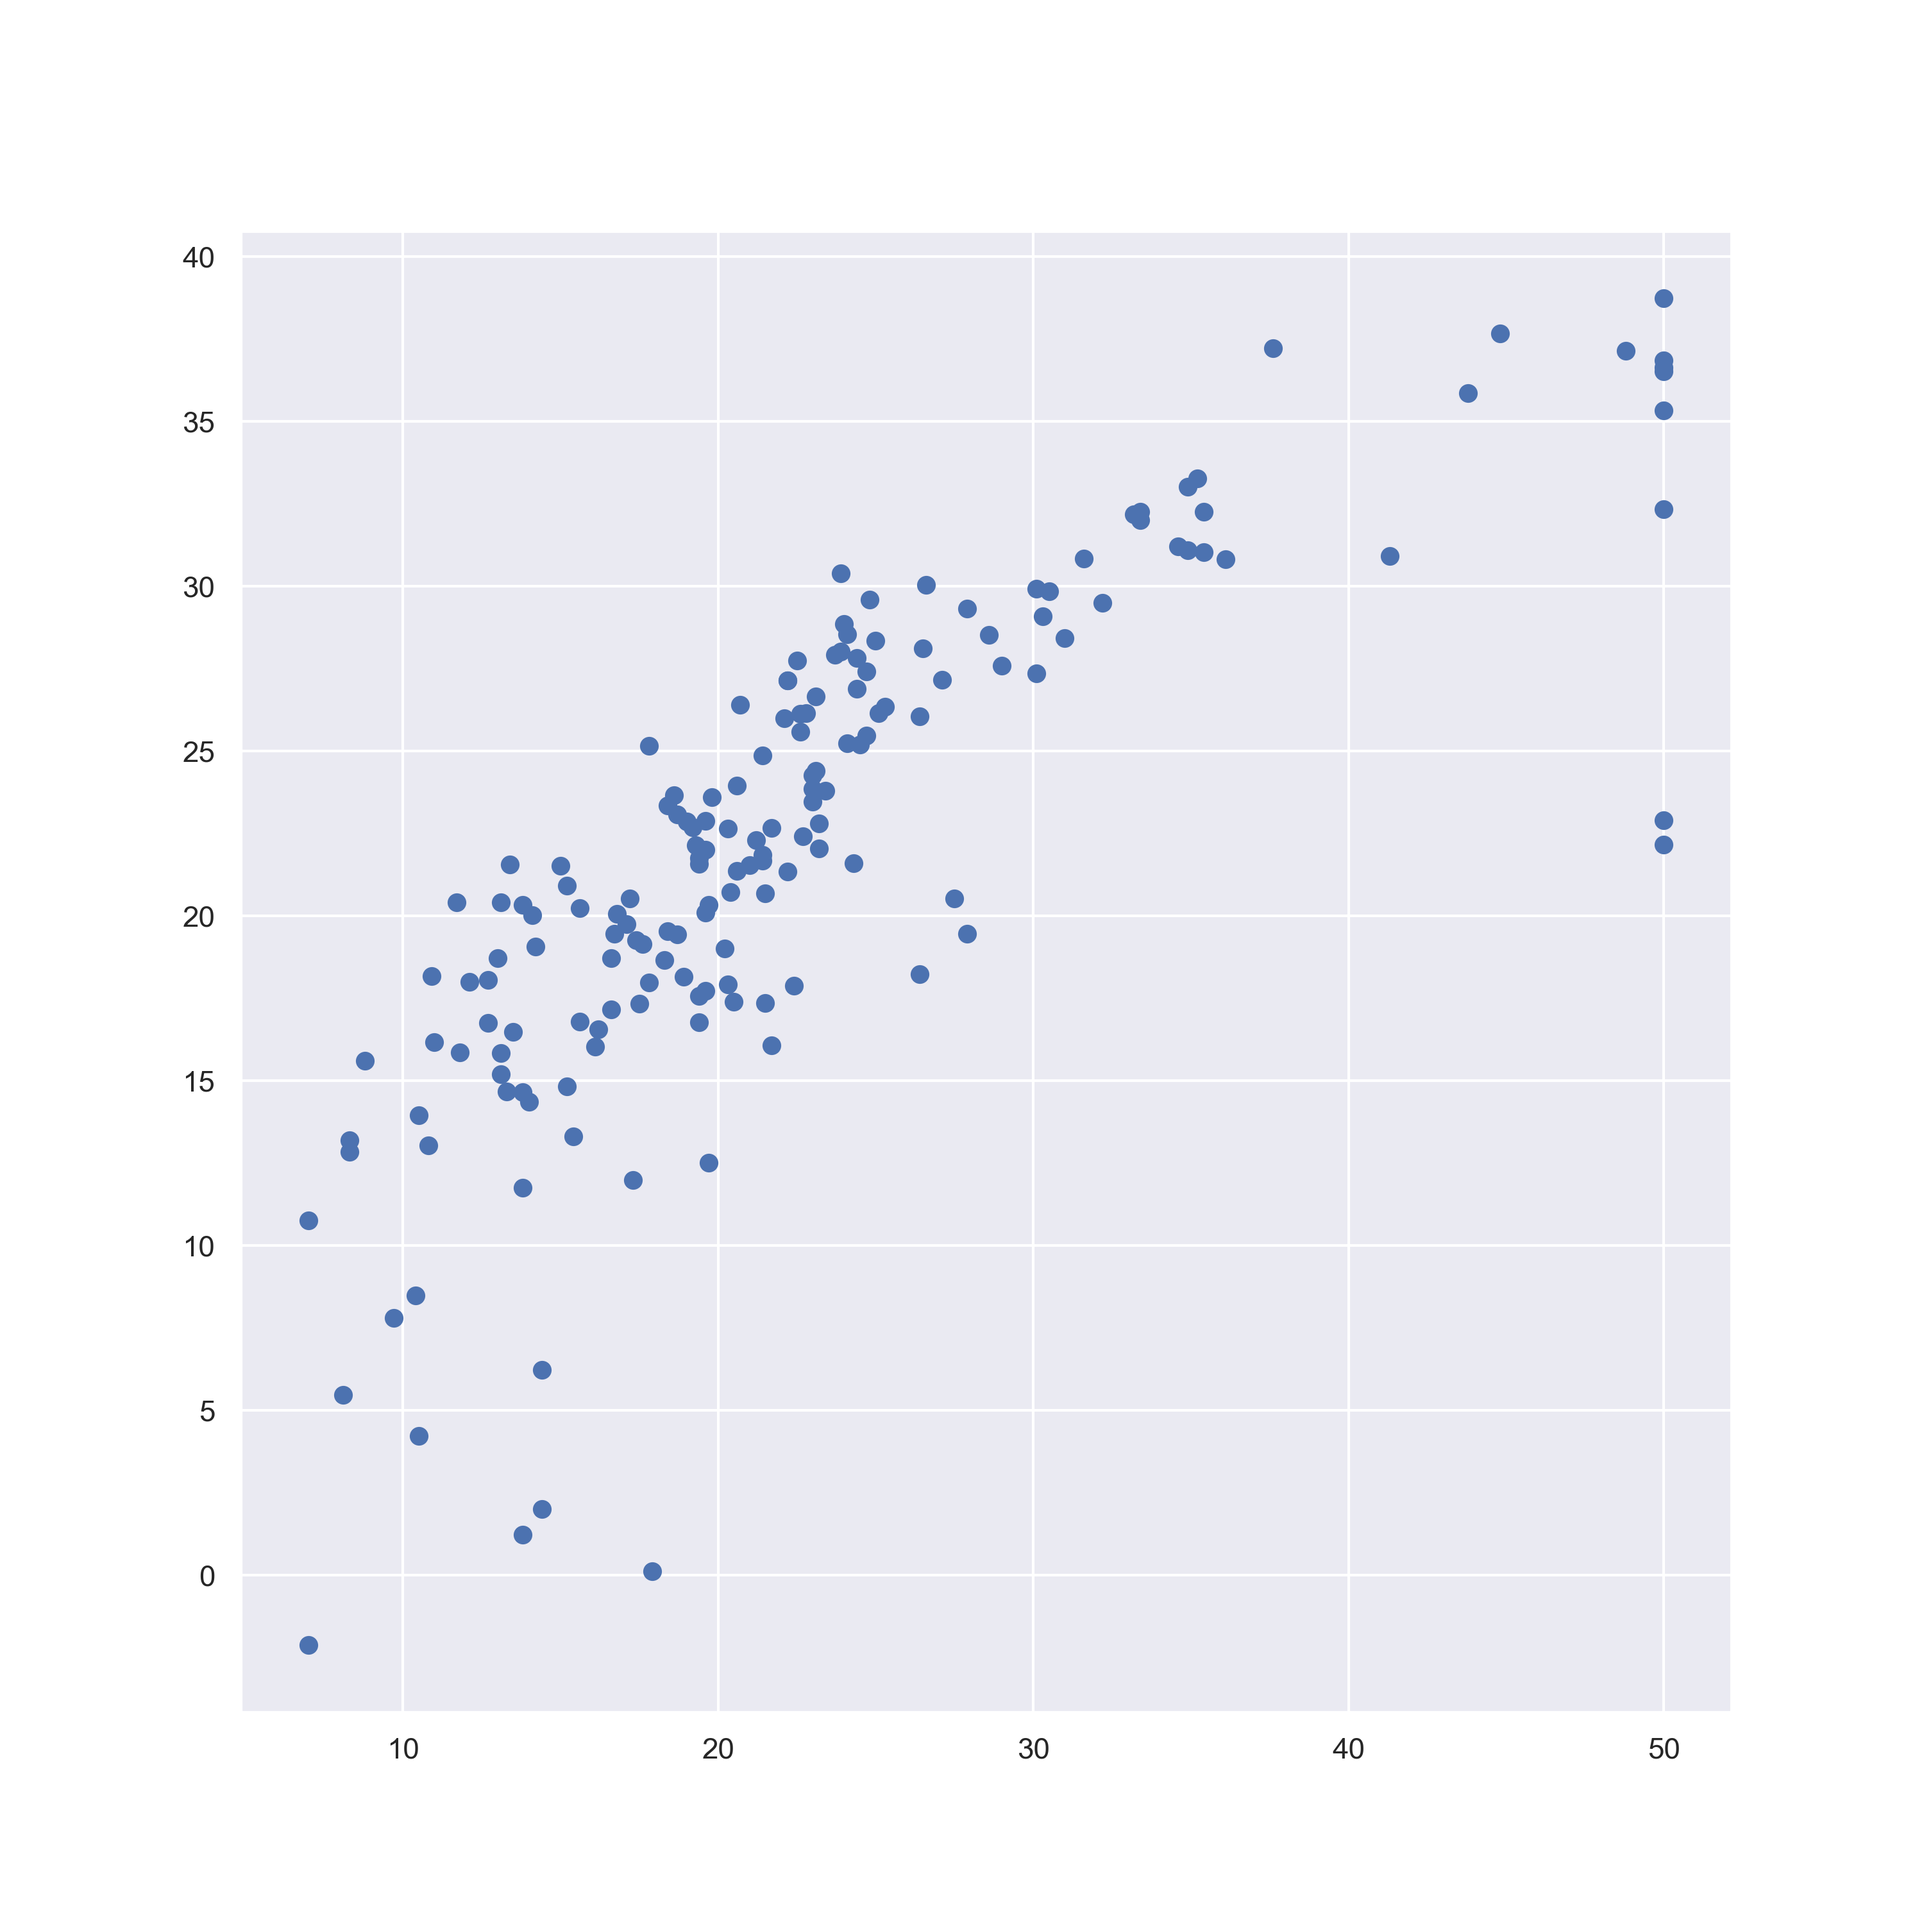
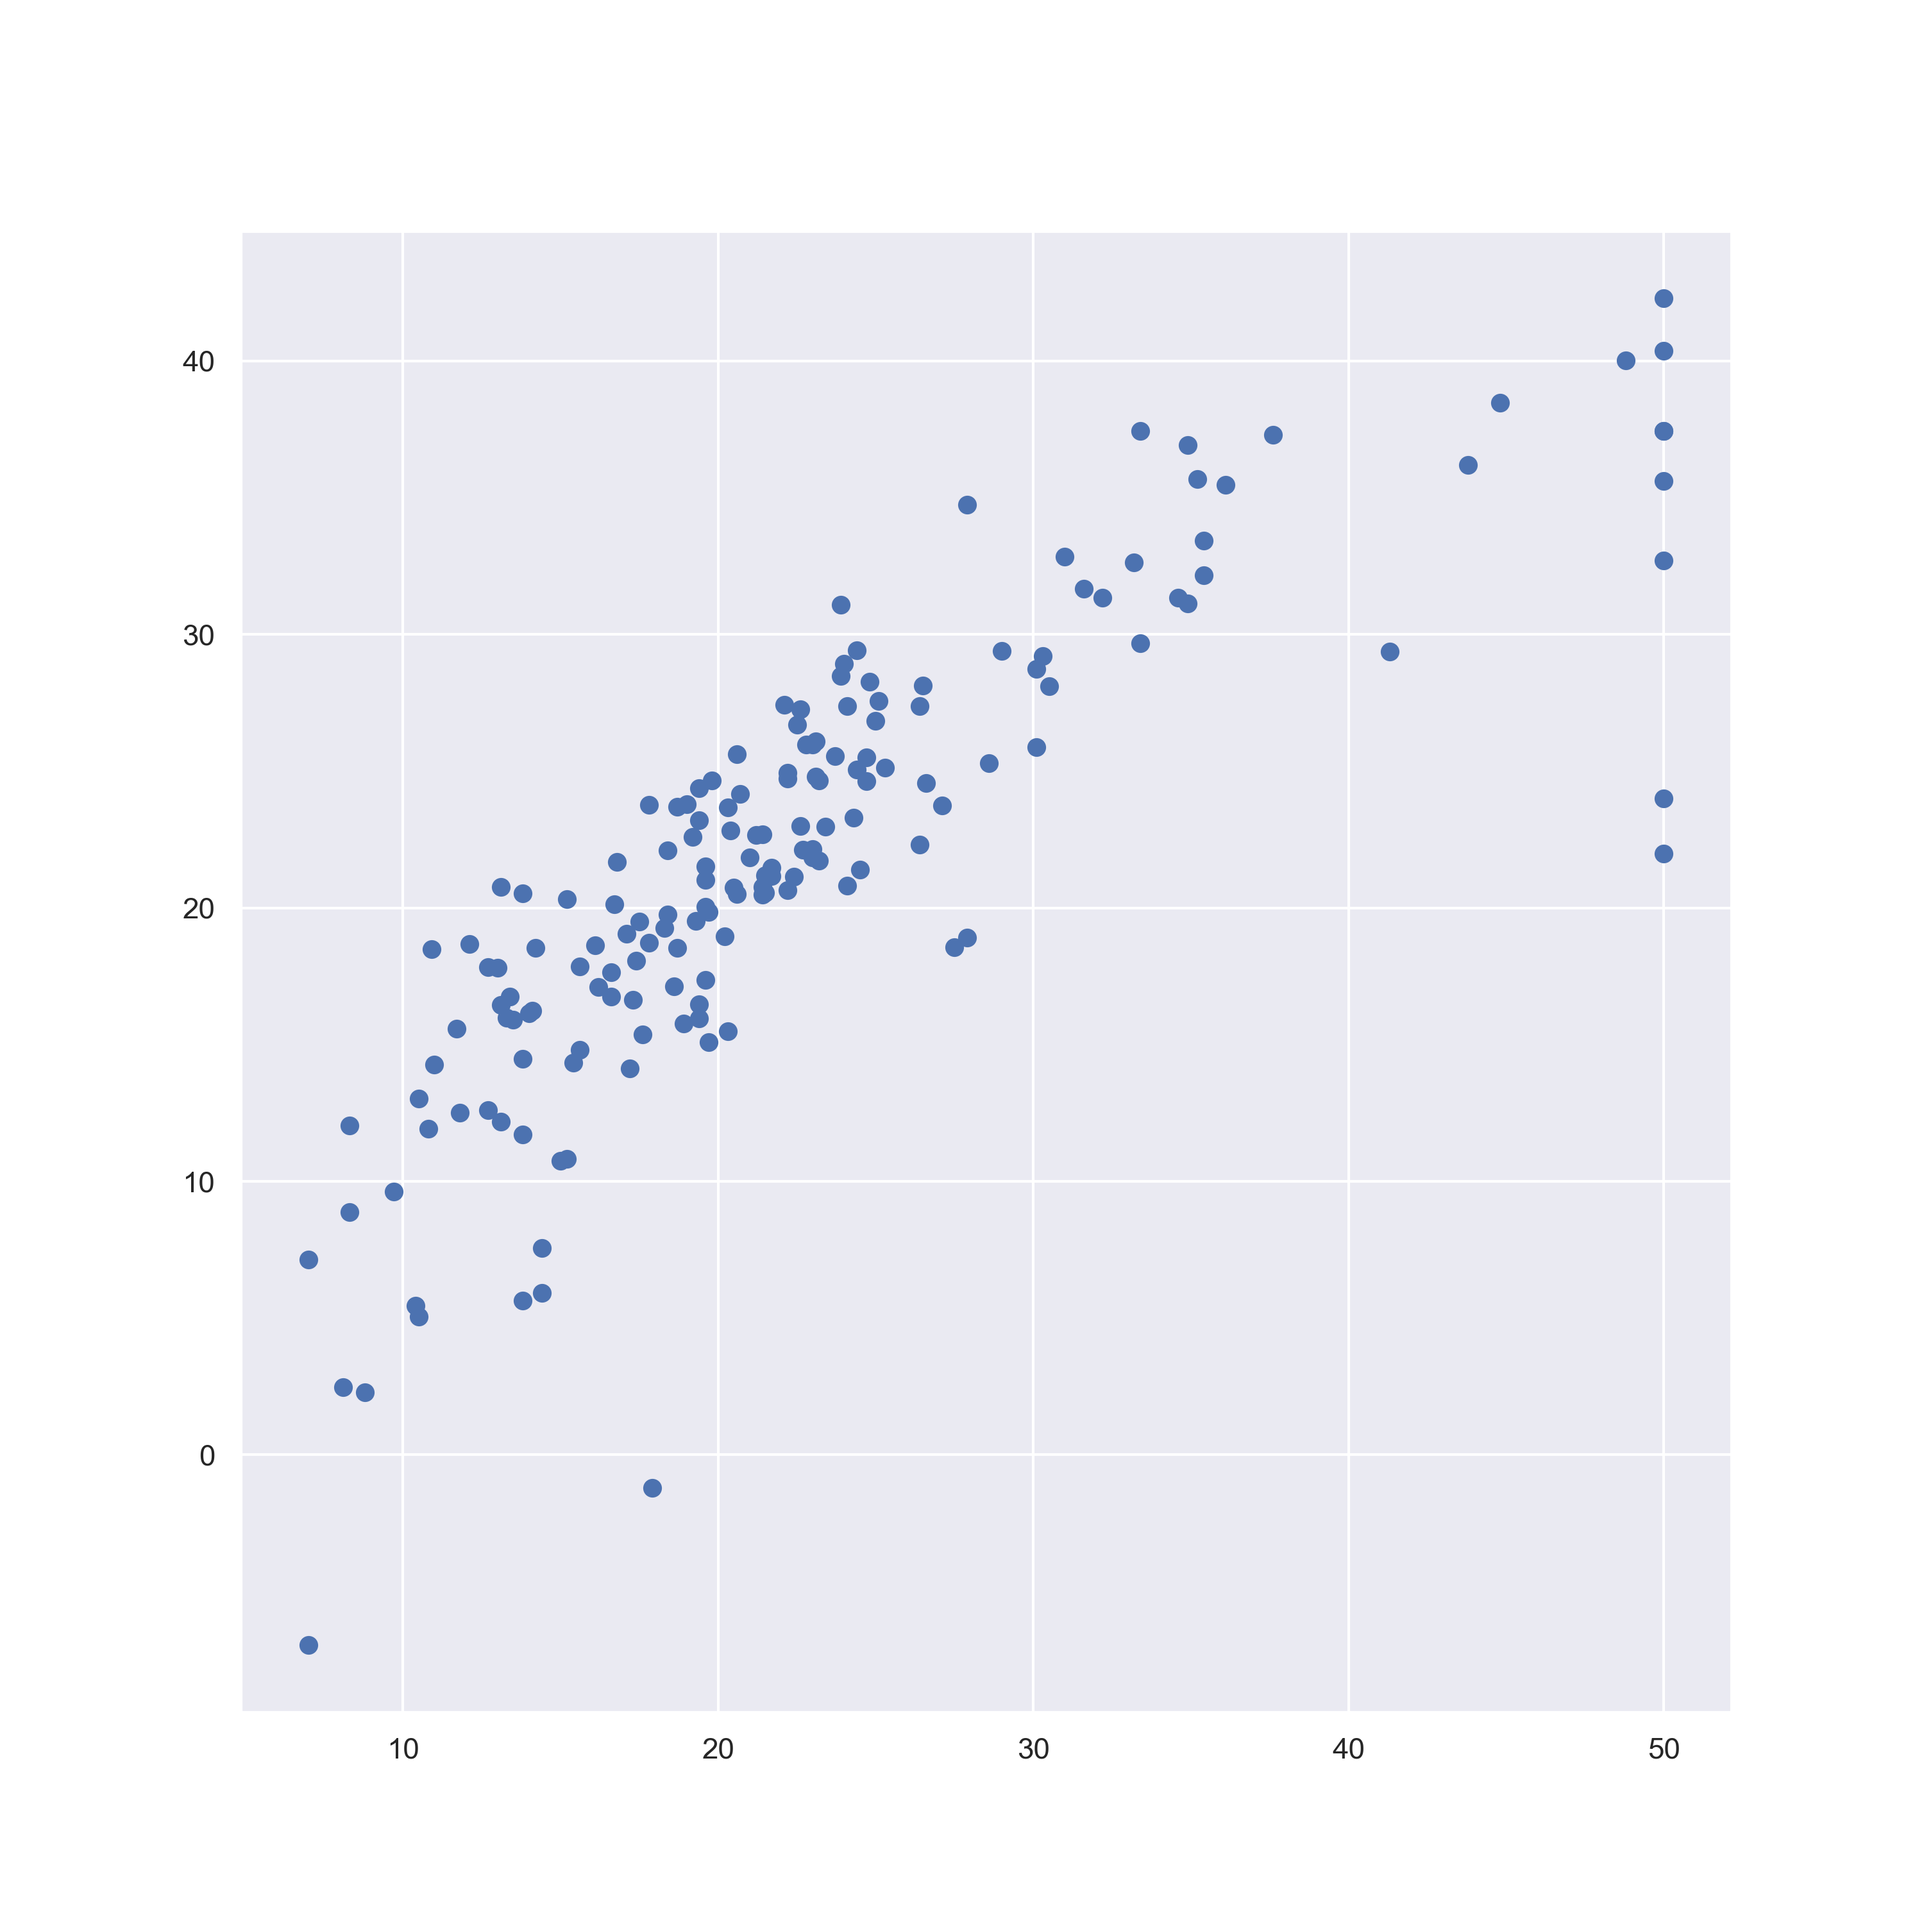
with comparision3

diff --git a/boston_analysisa_less_variable_result.py b/boston_analysisa_less_variable_result.py
@@ -47,10 +47,7 @@ for i, col in enumerate(features):
 plt.close()
 
 # prepare for modeling
-X = pd.DataFrame(np.c_[bos['LSTAT'], bos['RM'], bos['DIS'], bos['INDUS'], bos['CHAS'], bos['NOX']
-                 , bos['AGE'], bos['RAD'], bos['TAX'], bos['B'], bos['CRIM'], bos['ZN']],
-                 columns = ['LSTAT','RM', 'DIS', 'INDUS', 'CHAS', 'NOX', 'AGE', 'RAD',
-                            'TAX', 'B', 'CRIM', 'ZN'])
+X = pd.DataFrame(np.c_[bos['LSTAT'], bos['RM']],columns = ['LSTAT','RM'])
 Y = bos['MEDV']
 
 # build train and test
